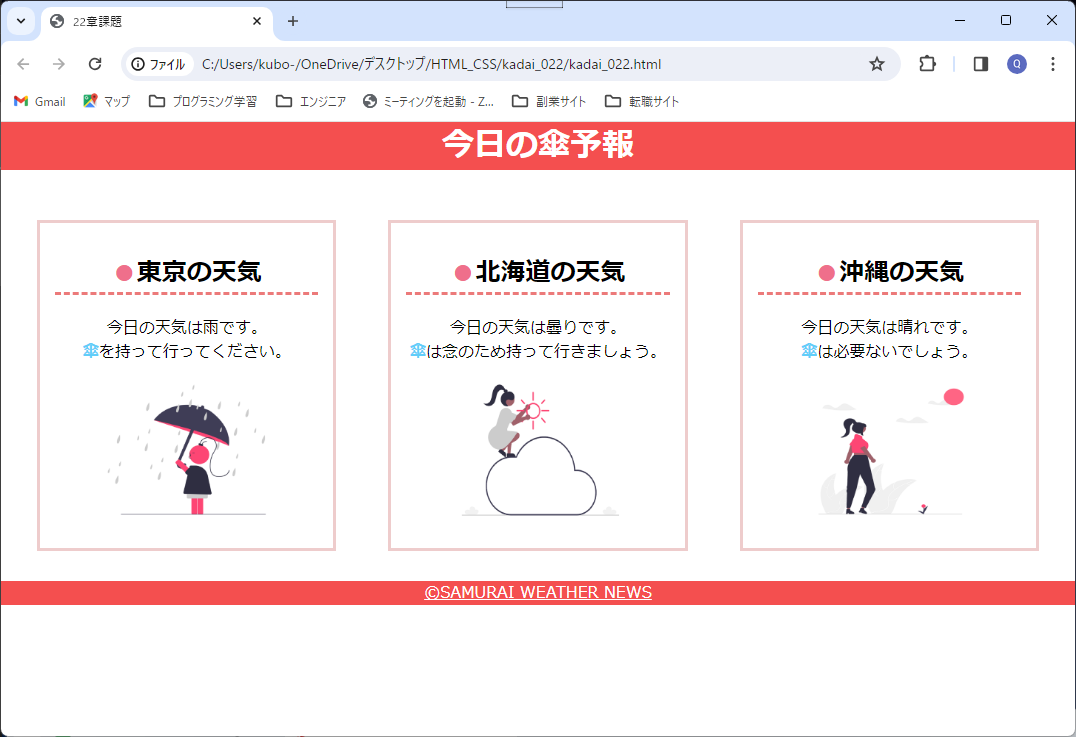
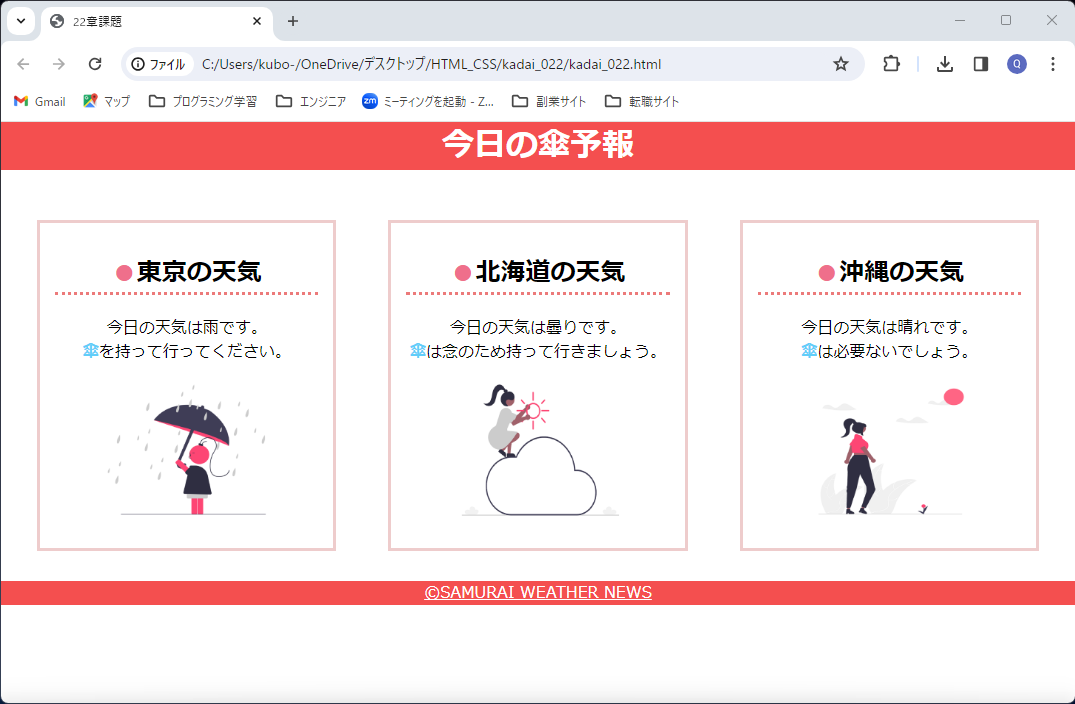
課題22のh2下線を修正

diff --git a/kadai_022/style.css b/kadai_022/style.css
@@ -28,7 +28,7 @@ main {
 }
 h2 {
     font-size: 25px;
-    border-bottom: 3px dashed rgb(236,122,122);
+    border-bottom: 3px dotted rgb(236,122,122);
 }
 h2::before {
     content: "●";
